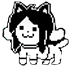
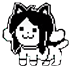
made all sprites the same size

diff --git a/src/main.c b/src/main.c
@@ -103,7 +103,6 @@ static void draw_background(Layer *layer, GContext *ctx) {
 
 static void draw_character(Layer *layer, GContext *ctx) {
 	#ifdef PBL_PLATFORM_BASALT
-		GRect chara = gbitmap_get_bounds(character_bitmap);
 		graphics_context_set_compositing_mode(ctx, GCompOpSet);	
 		graphics_draw_bitmap_in_rect(ctx, character_bitmap, gbitmap_get_bounds(character_bitmap));
 	#elif PBL_PLATFORM_APLITE
@@ -159,7 +158,7 @@ static void main_window_load(Window *window) {
 	#elif PBL_PLATFORM_APLITE
 		GRect character = gbitmap_get_bounds(character_bitmap_b); // Get the size of the bw character image
 	#endif
-	character_layer = layer_create(GRect((bounds.size.w / 2) - (character.size.w / 2), 70 - character.size.h, character.size.w, character.size.h)); // Position the character down 3px and in the middle of the screen
+	character_layer = layer_create(GRect((bounds.size.w / 2) - (character.size.w / 2), 69 - character.size.h, character.size.w, character.size.h)); // Position the character down 3px and in the middle of the screen
 	layer_set_update_proc(character_layer, draw_character); // Set the update function for the character image
 	
 	// Draw HP bar
@@ -246,6 +245,7 @@ static void tick_handler(struct tm *tick_time, TimeUnits units_changed) {
 	if (tick_time->tm_min % 60 == 0) { // Pick a new character every hour
 		APP_LOG(APP_LOG_LEVEL_INFO, "It's on the hour - updating character");
 		pick_character();
+		layer_mark_dirty(character_layer);
 	}
 }
 
